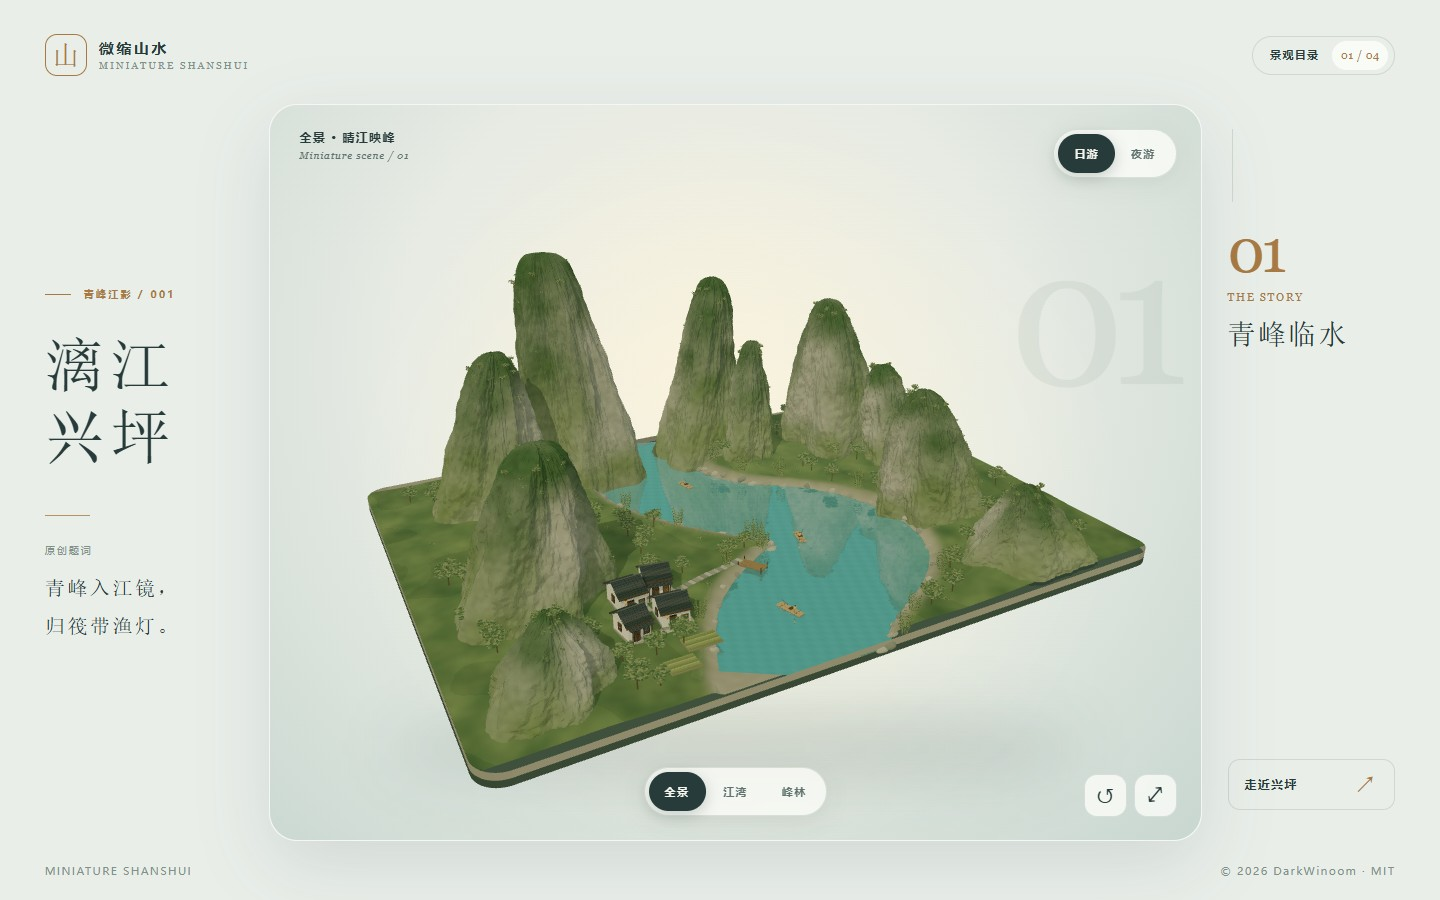
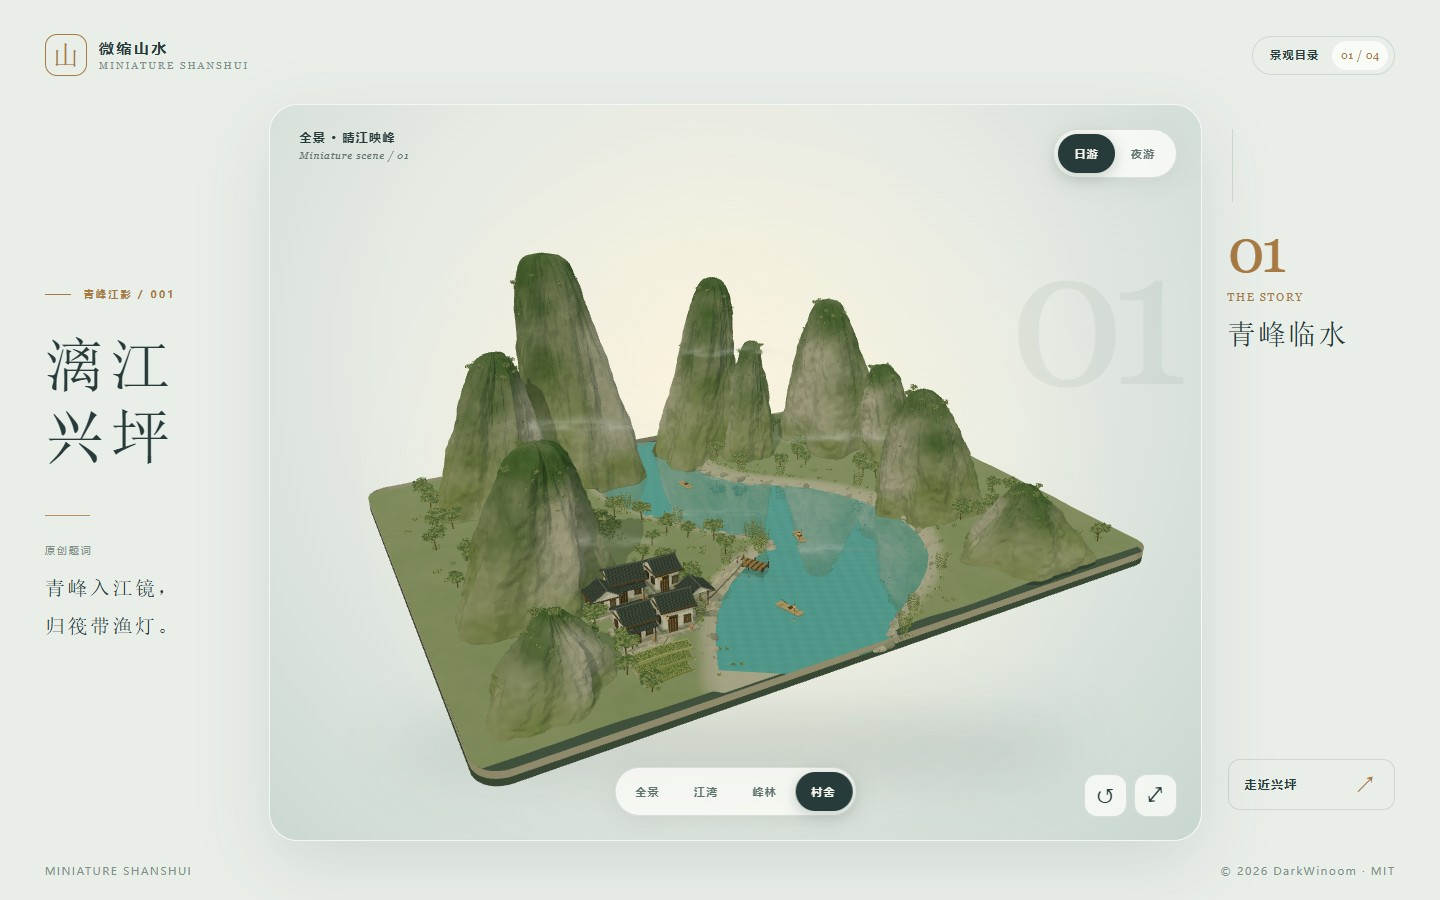
Refresh Xingping gallery and detail previews

diff --git a/README.md b/README.md
@@ -8,6 +8,8 @@
 | :---: | :---: |
 | ![漓江兴坪日游页面截图](docs/screenshots/xingping-day.jpg) | ![漓江兴坪夜游页面截图](docs/screenshots/xingping-night.jpg) |
 
+![漓江兴坪村舍、石巷与岸边细节](docs/screenshots/xingping-village.jpg)
+
 | 02 · 金马碧鸡坊（日游） | 03 · 大观楼（夜游） |
 | :---: | :---: |
 | ![金马碧鸡坊日游页面截图](docs/screenshots/jinma-day.jpg) | ![大观楼夜游页面截图](docs/screenshots/daguan-night.jpg) |
@@ -22,10 +24,10 @@
 - 模型入场后会缓慢自动旋转，拖动后停转。展台右下角可以复位视角并重新开启自动旋转，也可以进入沉浸观景；按 `Esc` 可以退出沉浸模式。
 - 切换“日游”“夜游”，查看柔和阳光与夜间灯光。点击当前景观的“走近”按钮阅读历史与掌故，点击“景观目录”查看已收录场景。
 - 周庄双桥以石拱桥、石梁桥和十栋沿河民居组成微缩街区，提供“街区／双桥／河巷”三种视角。瓦片、砌石、木窗和船篷以几何细节呈现，水巷有缓慢波纹及随视角变化的桥影、民居与夜灯倒影。
-- 漓江兴坪是较大型的山水微景，峰林、岩壁、坡面植被与宽阔江湾为主体，岸边点缀村落、田地和码头。可在“全景／江湾／峰林”中走近山形、竹筏和山影，日游看晴江，夜游看月色与渔灯。
+- 漓江兴坪是较大型的山水微景，峰林、岩壁与宽阔江湾为主体，岸边有五栋村舍、院落、凉亭、弧形田地和码头。可在“全景／江湾／峰林／村舍”中观看山影、舟筏、窗瓦、石巷与井台；峰间和江湾有轻薄流动的云雾，日游看晴江，夜游看月色与渔灯。
 - 模型载入时显示山水动画；若设备无法运行 WebGL 或模型加载失败，可以点“重新载入”重试，文字资料仍可阅读。启用系统的“减少动态效果”后，页面会简化切换动效。
 
-目前展示顺序为 `01 · 漓江兴坪`、`02 · 金马碧鸡坊`、`03 · 大观楼`、`04 · 周庄双桥`。景观信息、目录封面、子视图、相机、灯光和水面效果统一登记在 `src/scenes.ts`，漓江兴坪的完整配置位于 `src/landscape.ts`；目录只显示实际收录的场景。展示顺序与内部稳定 ID 分离，调整首景不需要改写已有模型路径。减少动态效果偏好下，水纹停止运动，倒影仍可随观看视角更新。
+目前展示顺序为 `01 · 漓江兴坪`、`02 · 金马碧鸡坊`、`03 · 大观楼`、`04 · 周庄双桥`。景观信息、目录封面、子视图、相机、灯光和水面效果统一登记在 `src/scenes.ts`，漓江兴坪的完整配置位于 `src/landscape.ts`；目录只显示实际收录的场景。展示顺序与内部稳定 ID 分离，调整首景不需要改写已有模型路径。减少动态效果偏好下，水纹和云雾停止运动，倒影仍可随观看视角更新。
 
 ## 本地运行
 
@@ -66,7 +68,7 @@ docker run --rm -p 8080:80 miniature-shanshui
 
 周庄双桥模型使用 Blender 5.2 制作，桥梁、民居、船只和植物均为原创几何与纯色材质，没有摄影贴图、第三方模型或外部法线图片。周边房屋与街巷为水乡风貌的概括创作。网页保留七级 Toon 建筑材质，单独为水巷加入自制波纹和场景反射；源文件、制作脚本及内部验证记录保存在被忽略的 `.agents-docs/`。
 
-漓江兴坪模型也使用 Blender 5.2 原创制作，岩石起伏、裂隙、坡面植被和顶点色均由程序生成，没有摄影纹理或外部模型。微景对兴坪山水的峰形、岸线与聚落作概括创作，采用既有七级 Toon 与轻度空气层次，水面有动态波纹、山影和渔灯倒影。其资料参阅[桂林漓江景区的黄布倒影介绍](https://www.liriver.org.cn/page/article/zglj.hbdy)与[阳朔漓江景区的兴坪介绍](https://www.ljjq.com/xingping.html)；正文与题词均独立撰写，来源图片及原文段落不进入公开资源。
+漓江兴坪模型也使用 Blender 5.2 原创制作，岩石起伏、裂隙、坡面植被和顶点色均由程序生成，没有摄影纹理或外部模型。模型约 100 万三角面，山体减少冗余网格，村舍、石基、连贯铺地与岸边细节得到加强。地面采用柔和的原创草土顶点色和七阶色板插值，建筑与岩壁继续使用七级 Toon；云雾由程序化着色器绘制，无外部云图片。水面有动态波纹、山影和渔灯倒影。其资料参阅[桂林漓江景区的黄布倒影介绍](https://www.liriver.org.cn/page/article/zglj.hbdy)与[阳朔漓江景区的兴坪介绍](https://www.ljjq.com/xingping.html)；正文与题词均独立撰写，来源图片及原文段落不进入公开资源。
 
 各景页面题词均为本项目原创；历史内容为原创概述，民间掌故明确标注。资料出处可在各景故事面板查看：金马碧鸡坊参阅[云南省民政厅地名文化资料](https://ynmz.yn.gov.cn/cms/dimingfengcai/11216.html)与[昆明信息港文史报道](https://m.kunming.cn/news/c/2023-01-16/13652377.shtml)，大观楼参阅[昆明历史建筑科普](https://www.kunming.cn/news/c/2026-04-22/14035565.shtml)与[大观楼文史报道](https://www.kunming.cn/news/c/2022-08-11/13585378.shtml)。周庄双桥参阅[周庄旅游官网](https://zhouzhuang.net/scenic_4/1257.html)、[昆山市人民政府](https://www.ks.gov.cn/kss/tsks/202112/e6157a6b261149879f8322af3980ee62.shtml)与[苏州市地方志资料](https://dfzb.suzhou.gov.cn/dfzb/szdq/201604/949ce3099ec640709af67935765015a8.shtml)。本项目不使用这些来源的图片或原文段落。
 
